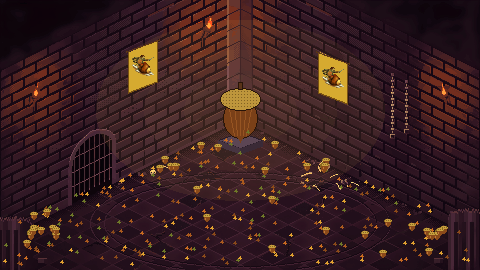
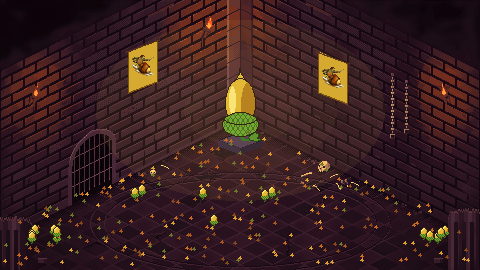
feat: Eichel-MG statt Käsestücken, Eicheln wie auf bayerischen Karten
- Eichelkäseattacke: Der Eichelober feuert eine Salve Eicheln mit
  Leuchtspur aus der Spitze seiner Eichel (Mündungsfeuer, Rückstoß,
  grüne Kappen fliegen zurück), dann eine Riesen-Eichel als Finale.
  Keine Käseecken mehr.
- Alle Eicheln (Geschosse, Regen, Boden, Gang-Bild) und die große
  Statue in der Eichel-Arena nach der Spielkarten-Eichel: gelbe Frucht
  oben, grüne gemusterte Kappe mit Stiel unten.
- Weniger lose Eicheln am Boden, damit die Geschosse lesbar bleiben.

Claude-Session: https://claude.ai/code/session_01URJ2x6GB5v4m7iNPs4GFtJ

diff --git a/src/render/arena.ts b/src/render/arena.ts
@@ -11,7 +11,7 @@ import { carriesField, chooseRoom, ROOM_MIN_SCALE } from "./rooms.ts";
 import { ROOM_PICTURES } from "./rooms/index.ts";
 import { displaySize, renderGlow, renderSprite, type PixelImage } from "./sprite.ts";
 import { ISO } from "./stage-iso.ts";
-import { acornImage, cheeseImage, signatureFor, tattooImage, type Signature } from "./eichel.ts";
+import { acornImage, signatureFor, tattooImage, type Signature } from "./eichel.ts";
 import { FLOOR_Y, GROUND_Y, HEIGHT, openBricks, paintStarfield, scatterStars, TORCH_X, WIDTH, type Brick, type StageLayout, type Star } from "./stage.ts";
 
 export { FLOOR_Y, GROUND_Y, HEIGHT, TORCH_X, WIDTH } from "./stage.ts";
@@ -200,7 +200,7 @@ export interface Particle {
   glow: boolean;
 }
 
-/** A little picture flying through the arena (an acorn, a wedge of cheese, the gang tattoo). */
+/** A little picture flying through the arena (an acorn, the gang tattoo). */
 export interface Prop {
   readonly image: HTMLCanvasElement;
   x: number;
@@ -217,6 +217,8 @@ export interface Prop {
   /** Seconds of fade-in and fade-out at the ends of its life. */
   readonly fade: number;
   readonly glow: number;
+  /** Bursts into shards where its flight ends (an acorn hitting home). */
+  readonly shatter?: boolean;
 }
 
 /** How an attack looks – chosen from the mechanism, see {@link attackStyle}. */
@@ -353,9 +355,9 @@ export abstract class ArenaSim {
   protected readonly background: HTMLCanvasElement;
   protected readonly fighters: [Fighter | null, Fighter | null] = [null, null];
   protected readonly particles: Particle[] = [];
-  /** Flying pictures (acorns, cheese, the gang tattoo). */
+  /** Flying pictures (acorns, the gang tattoo). */
   protected readonly props: Prop[] = [];
-  private eichelArt: { acorn: HTMLCanvasElement; cheese: HTMLCanvasElement } | null = null;
+  private eichelArt: { acorn: HTMLCanvasElement } | null = null;
   protected readonly projectiles: Projectile[] = [];
   protected readonly rings: Ring[] = [];
   protected readonly bolts: Bolt[] = [];
@@ -552,7 +554,7 @@ export abstract class ArenaSim {
         // the Eichelober arrives: acorns rain around him, clouds puff up where he lands
         const { acorn } = this.eichelProps();
         for (let i = 0; i < 16; i++) {
-          this.props.push({ image: acorn, x: x + (r() - 0.5) * 120, y: -10 - r() * 50, vx: (r() - 0.5) * 20, vy: 40 + r() * 40, life: -r() * 0.6, max: 1.6, gravity: 180, w: 8, h: 9, flip: r() < 0.5, fade: 0.15, glow: 0 });
+          this.props.push({ image: acorn, x: x + (r() - 0.5) * 120, y: -10 - r() * 50, vx: (r() - 0.5) * 20, vy: 40 + r() * 40, life: -r() * 0.6, max: 1.6, gravity: 180, w: 10, h: 13, flip: r() < 0.5, fade: 0.15, glow: 0 });
         }
         this.clouds(x, this.gy(side) - 2, 26);
         this.rings.push({ x, y: this.gy(side), r: 4, life: 0, max: 0.9, color: "#e8c040" });
@@ -1780,9 +1782,14 @@ export abstract class ArenaSim {
       p.life += dt;
       if (p.life >= p.max) {
         this.props.splice(i, 1);
+        if (p.shatter === true) {
+          for (let k = 0; k < 6; k++) this.particles.push({ x: p.x, y: p.y, vx: (this.rand() - 0.5) * 110, vy: -20 - this.rand() * 70, life: 0, max: 0.3 + this.rand() * 0.3, color: k % 3 === 0 ? "#78a834" : "#e2b834", size: 1, gravity: 260, glow: false });
+        }
         continue;
       }
       if (p.life < 0) continue;
+      // a fired acorn draws a glowing tracer behind it
+      if (p.shatter === true) this.particles.push({ x: p.x, y: p.y, vx: -p.vx * 0.05, vy: -p.vy * 0.05, life: 0, max: 0.14, color: this.rand() < 0.5 ? "#fff0a0" : "#ffb838", size: 2, gravity: 0, glow: true });
       p.vy += p.gravity * dt;
       p.x += p.vx * dt;
       p.y += p.vy * dt;
@@ -1803,7 +1810,7 @@ export abstract class ArenaSim {
       const g = 140;
       // falls until it reaches the floor, then bounces off as a few crumbs
       const t = (-vy + Math.sqrt(vy * vy + 2 * g * (land + 12))) / g;
-      this.props.push({ image: acorn, x: 20 + r() * (WIDTH - 40), y: -12, vx: (r() - 0.5) * 12, vy, life: 0, max: t, gravity: g, w: 8, h: 9, flip: r() < 0.5, fade: 0.1, glow: 0 });
+      this.props.push({ image: acorn, x: 20 + r() * (WIDTH - 40), y: -12, vx: (r() - 0.5) * 12, vy, life: 0, max: t, gravity: g, w: 10, h: 13, flip: r() < 0.5, fade: 0.1, glow: 0 });
     }
     if (r() < dt * 9) {
       const c = ["#c86a20", "#e0a030", "#8a4a1a", "#6e7828"][Math.floor(r() * 4)] ?? "#c86a20";
@@ -1811,8 +1818,8 @@ export abstract class ArenaSim {
     }
   }
 
-  private eichelProps(): { acorn: HTMLCanvasElement; cheese: HTMLCanvasElement } {
-    this.eichelArt ??= { acorn: toCanvas(acornImage()), cheese: toCanvas(cheeseImage()) };
+  private eichelProps(): { acorn: HTMLCanvasElement } {
+    this.eichelArt ??= { acorn: toCanvas(acornImage()) };
     return this.eichelArt;
   }
 
@@ -1832,9 +1839,9 @@ export abstract class ArenaSim {
   }
 
   /**
-   * "Eichelkäseattacke": the Eichelober rears up, rides his acorn across the arena on a trail of
-   * clouds and speed lines, rams the opponent – and the acorn bursts: molten Eichelkäse sprays,
-   * wedges of cheese fly, a green stink rises and cheese drips down the victim.
+   * "Eichelkäseattacke": the Eichelober rises on his acorn and opens fire – an acorn gun rattles
+   * from the tip of his acorn, a stream of acorns hammers the opponent (muzzle flashes, spent caps
+   * flying back, shards on every hit), and a last, giant acorn ends it with a blast.
    */
   private async eichelkaese(side: Side): Promise<void> {
     const attacker = this.fighters[side];
@@ -1845,58 +1852,67 @@ export abstract class ArenaSim {
     const rm = this.reducedMotion;
     const r = this.rand;
     const tx = SIDE_X[other];
+    const tw = target?.sprite.width ?? 30;
     const th = target?.sprite.height ?? 40;
     const ty = this.gy(other) - th / 2;
-    const { cheese } = this.eichelProps();
-    // wind-up: he rears back and lifts off, the shield glints gold
-    this.rings.push({ x: SIDE_X[side], y: this.gy(side) - attacker.sprite.height / 2, r: 4, life: 0, max: 0.6, color: "#e8c040" });
-    await this.tween(rm ? 40 : 380, (t) => {
-      attacker.offsetX = -dir * 12 * t;
-      attacker.offsetY = -10 * t;
-      if (r() < 0.6) this.particles.push({ x: SIDE_X[side] + (r() - 0.5) * attacker.sprite.width, y: this.gy(side) - r() * attacker.sprite.height, vx: 0, vy: -20, life: 0, max: 0.5, color: "#ffe680", size: 1, gravity: 0, glow: true });
+    const { acorn } = this.eichelProps();
+    // wind-up: he rises, the gun spins up with a golden glint
+    await this.tween(rm ? 40 : 320, (t) => {
+      attacker.offsetX = -dir * 6 * t;
+      attacker.offsetY = -8 * t;
     });
-    this.onCue?.("strike");
-    // the ride: an arc across the arena, clouds and brown speed lines behind
-    const gap = Math.abs(tx - SIDE_X[side]) - (attacker.sprite.width + (target?.sprite.width ?? 30)) / 2 + 10;
-    const dist = Math.max(20, gap);
-    await this.tween(rm ? 60 : 560, (t) => {
-      const e = t * t * (3 - 2 * t);
-      attacker.offsetX = dir * (-12 + (dist + 12) * e);
-      attacker.offsetY = -10 - 26 * Math.sin(t * Math.PI);
-      const bx = SIDE_X[side] + attacker.offsetX - dir * attacker.sprite.width * 0.45;
-      const by = this.gy(side) + attacker.offsetY - 4;
-      this.clouds(bx, by, 2, -dir * 20);
-      for (let k = 0; k < 2; k++) this.particles.push({ x: bx - dir * r() * 20, y: by - r() * attacker.sprite.height * 0.6, vx: -dir * (120 + r() * 80), vy: 0, life: 0, max: 0.25, color: r() < 0.5 ? "#8a5428" : "#c07a3a", size: 1, gravity: 0, glow: false });
-    });
-    // KÄSE!
+    const muzzle = (): [number, number] => [SIDE_X[side] + attacker.offsetX + dir * attacker.sprite.width * 0.48, this.gy(side) + attacker.offsetY - attacker.sprite.height * 0.28];
+    const [mx0, my0] = muzzle();
+    this.rings.push({ x: mx0, y: my0, r: 2, life: 0, max: 0.4, color: "#ffe680" });
+    await wait(rm ? 30 : 200);
+    // the barrage
+    const shots = rm ? 6 : 34;
+    const flight = rm ? 0.12 : 0.24;
+    for (let i = 0; i < shots; i++) {
+      if (i % 3 === 0) this.onCue?.("strike");
+      const [mx, my] = muzzle();
+      const hx = tx + (r() - 0.5) * tw * 0.7;
+      const hy = ty + (r() - 0.5) * th * 0.7;
+      this.props.push({ image: acorn, x: mx, y: my, vx: (hx - mx) / flight, vy: (hy - my) / flight, life: 0, max: flight, gravity: 0, w: 12, h: 16, flip: false, fade: 0, glow: 0.6, shatter: true });
+      // muzzle flash and a spent green cap flying back
+      for (let k = 0; k < 5; k++) this.particles.push({ x: mx, y: my, vx: dir * (40 + r() * 90), vy: (r() - 0.5) * 60, life: 0, max: 0.08 + r() * 0.08, color: k < 2 ? "#ffffff" : "#ffd84a", size: k === 0 ? 4 : 2, gravity: 0, glow: true });
+      this.rings.push({ x: mx, y: my, r: 2, life: 0, max: 0.1, color: "#fff0a0", grow: 60 });
+      this.particles.push({ x: mx - dir * 6, y: my, vx: -dir * (30 + r() * 40), vy: -50 - r() * 40, life: 0, max: 0.6, color: r() < 0.5 ? "#78a834" : "#487420", size: 2, gravity: 260, glow: false });
+      // recoil
+      attacker.offsetX = -dir * (6 + (i % 2) * 2);
+      this.shake = Math.max(this.shake, rm ? 0 : 1.5);
+      if (target !== null && i % 4 === 3) target.flash = 0.5;
+      await wait(rm ? 40 : 42);
+    }
+    await wait(flight * 1000);
+    // the finale: one giant acorn
+    const [mx, my] = muzzle();
+    const big = rm ? 0.15 : 0.4;
+    this.props.push({ image: acorn, x: mx, y: my, vx: (tx - mx) / big, vy: (ty - my) / big, life: 0, max: big, gravity: 0, w: 30, h: 39, flip: false, fade: 0, glow: 0.3 });
+    for (let k = 0; k < 20; k++) this.particles.push({ x: mx, y: my, vx: dir * (60 + r() * 140), vy: (r() - 0.5) * 90, life: 0, max: 0.15 + r() * 0.1, color: k % 2 === 0 ? "#ffffff" : "#ffd84a", size: 3, gravity: 0, glow: true });
+    this.shake = rm ? 0 : 5;
+    await wait(big * 1000);
     this.onCue?.("boom");
-    this.flash = 0.7;
+    this.flash = 0.6;
     this.flashColor = "#ffe680";
     this.shake = rm ? 0 : 12;
-    for (let k = 0; k < 3; k++) this.rings.push({ x: tx, y: ty, r: 4, life: -k * 0.1, max: 0.9, color: k === 1 ? "#fff4c0" : "#f0c030", grow: 160 });
-    const goo = ["#f0c030", "#ffe680", "#c89020", "#fff4c0"];
-    for (let i = 0; i < 140; i++) {
-      const a = -Math.PI * r();
-      const sp = 40 + r() * 190;
-      this.particles.push({ x: tx, y: ty, vx: Math.cos(a) * sp, vy: Math.sin(a) * sp, life: -r() * 0.1, max: 0.9 + r() * 0.9, color: goo[i % goo.length] ?? "#f0c030", size: r() < 0.4 ? 2 : 1, gravity: 220, glow: i % 3 === 0 });
+    for (let k = 0; k < 3; k++) this.rings.push({ x: tx, y: ty, r: 4, life: -k * 0.1, max: 0.9, color: k === 1 ? "#fff4c0" : "#e2b834", grow: 160 });
+    const bits = ["#e2b834", "#fae478", "#b88220", "#78a834", "#487420"];
+    for (let i = 0; i < 120; i++) {
+      const a = r() * Math.PI * 2;
+      const sp = 40 + r() * 180;
+      this.particles.push({ x: tx, y: ty, vx: Math.cos(a) * sp, vy: Math.sin(a) * sp - 40, life: 0, max: 0.6 + r() * 0.8, color: bits[i % bits.length] ?? "#e2b834", size: r() < 0.4 ? 2 : 1, gravity: 240, glow: i % 4 === 0 });
     }
-    for (let i = 0; i < 9; i++) {
-      this.props.push({ image: cheese, x: tx + (r() - 0.5) * 16, y: ty, vx: (r() - 0.5) * 220, vy: -110 - r() * 120, life: -r() * 0.1, max: 1.6, gravity: 300, w: 13, h: 10, flip: r() < 0.5, fade: 0.2, glow: 0.2 });
-    }
-    // the stink: green wisps rising
-    for (let i = 0; i < 36; i++) this.particles.push({ x: tx + (r() - 0.5) * 50, y: ty + (r() - 0.5) * th, vx: (r() - 0.5) * 10, vy: -8 - r() * 14, life: -r() * 0.8, max: 1.6 + r(), color: r() < 0.5 ? "#9ac040" : "#c8e070", size: 2, gravity: -6, glow: false });
-    // melted cheese runs down the victim
-    for (let i = 0; i < 40; i++) this.particles.push({ x: tx + (r() - 0.5) * (target?.sprite.width ?? 30), y: this.gy(other) - th + r() * 6, vx: 0, vy: 4 + r() * 10, life: -r() * 1.2, max: 1.2 + r() * 0.6, color: r() < 0.6 ? "#f0c030" : "#ffe680", size: 1, gravity: 30, glow: false });
-    await wait(rm ? 60 : 380);
-    // and back onto his side
+    // whole acorns bounce out of the blast
+    for (let i = 0; i < 8; i++) this.props.push({ image: acorn, x: tx, y: ty, vx: (r() - 0.5) * 200, vy: -100 - r() * 120, life: 0, max: 1.3, gravity: 320, w: 10, h: 13, flip: r() < 0.5, fade: 0.2, glow: 0 });
+    await wait(rm ? 60 : 300);
     const ox = attacker.offsetX;
     const oy = attacker.offsetY;
-    void this.tween(rm ? 40 : 450, (t) => {
+    void this.tween(rm ? 40 : 420, (t) => {
       attacker.offsetX = ox * (1 - t);
       attacker.offsetY = oy * (1 - t);
     });
   }
-
   /**
    * "Eichelhagel": the gang fires acorns with slingshots – from their own side and from the dark
    * corners where more of them hide – in three volleys that rattle down on the opponent.
@@ -1931,7 +1947,7 @@ export abstract class ArenaSim {
         const hy = this.gy(other) - th * (0.2 + r() * 0.7);
         const vx = (hx - sx) / flight;
         const vy = (hy - sy - 0.5 * g * flight * flight) / flight;
-        this.props.push({ image: acorn, x: sx, y: sy, vx, vy, life: 0, max: flight, gravity: g, w: 8, h: 9, flip: dir < 0, fade: 0, glow: 0 });
+        this.props.push({ image: acorn, x: sx, y: sy, vx, vy, life: 0, max: flight, gravity: g, w: 10, h: 13, flip: dir < 0, fade: 0, glow: 0 });
         // the slingshot's snap
         this.rings.push({ x: sx, y: sy, r: 1, life: 0, max: 0.25, color: "#c83a28", grow: 40 });
         hits.push([hx, hy]);

diff --git a/src/render/eichel.ts b/src/render/eichel.ts
@@ -1,6 +1,6 @@
 /**
- * The Eichelober and his gang – the secret characters' own show: little pixel props (acorn,
- * cheese wedge), the gang tattoo made from the Eichelober's picture, and which signature attack a
+ * The Eichelober and his gang – the secret characters' own show: the acorn they fire (drawn after
+ * the Eichel of the Bavarian cards), the gang tattoo made from the Eichelober's picture, and which signature attack a
  * name asks for. Presentation only – the engine decides the outcome as for every other form.
  */
 import type { PixelImage } from "./sprite.ts";
@@ -27,41 +27,31 @@ export const SIGNATURE_CRY: Readonly<Record<Signature, string>> = {
 
 type Grid = readonly string[];
 
+/** Shaped like the Eichel of the Bavarian cards: yellow nut pointing up, green hatched cup, green stalk. */
 const ACORN: Grid = [
-  "...w....",
-  ".cCCCCc.",
-  "cCcCcCcC",
-  "cCCCCCCc",
-  ".bbbbbb.",
-  ".bBbbbb.",
-  ".bBbbbb.",
-  "..bbbb..",
-  "...bb...",
-];
-
-const CHEESE: Grid = [
-  "...........YY",
-  "........YYYyy",
-  ".....YYYYyyyy",
-  "..YYYYYyyoyyy",
-  "YYYYYyyyyyyyy",
-  "yyyoyyyyyyoyy",
-  "yyyyyyyyyyyyy",
-  "yyoyyyyoyyyyy",
-  "yyyyyyyyyyyyy",
-  "ddddddddddddd",
+  "....kk....",
+  "...kYYk...",
+  "..kYYyyk..",
+  ".kYYyyyyk.",
+  ".kYyyyyok.",
+  ".kyyyyyok.",
+  ".kyyyyook.",
+  "kGgGgGgGgk",
+  "kgGgGgGgGk",
+  ".kgGgGgGk.",
+  "..kgggk...",
+  "....ks....",
+  "....sk....",
 ];
 
 const COLORS: Readonly<Record<string, readonly [number, number, number]>> = {
-  w: [0x5a, 0x34, 0x18],
-  c: [0x8a, 0x6a, 0x20],
-  C: [0xc8, 0xa0, 0x40],
-  b: [0x8a, 0x4a, 0x1a],
-  B: [0xc0, 0x7a, 0x3a],
-  Y: [0xff, 0xe6, 0x80],
-  y: [0xf0, 0xc0, 0x30],
-  o: [0xb8, 0x8a, 0x18],
-  d: [0xc8, 0x90, 0x20],
+  k: [0x34, 0x24, 0x0e],
+  Y: [0xfa, 0xe4, 0x78],
+  y: [0xe2, 0xb8, 0x34],
+  o: [0xb8, 0x82, 0x20],
+  G: [0x78, 0xa8, 0x34],
+  g: [0x48, 0x74, 0x20],
+  s: [0x40, 0x78, 0x24],
 };
 
 function gridImage(grid: Grid): PixelImage {
@@ -83,14 +73,9 @@ function gridImage(grid: Grid): PixelImage {
   return { width, height, data };
 }
 
-/** An acorn, 8×9 – what the gang's slingshots fire. */
+/** An acorn, 10×13 – what the Eichelober's acorn gun and the gang's slingshots fire. */
 export function acornImage(): PixelImage {
   return gridImage(ACORN);
-}
-
-/** A wedge of Eichelkäse, 13×10. */
-export function cheeseImage(): PixelImage {
-  return gridImage(CHEESE);
 }
 
 /**

diff --git a/src/render/CONTEXT.md b/src/render/CONTEXT.md
@@ -76,7 +76,8 @@ a freehand `skizze` only when no part fits. Unknown ids are dropped (`knownLook`
 Forms with `secret: true` (`content/core/forms/geheim.json`) stay out of the grimoire until this browser has seen them
 summoned (`oldest-game:secrets`). Their pictures come with the game (`content/core/secret-art.json`, id → art string,
 drawn from a design, not PixelLab). The **Eichelober** arrives in a shower of acorns and attacks with the
-*Eichelkäseattacke* (acorn ride across the arena, cheese explosion); the **Eichelober-Gang** flashes its tattoo (the
+*Eichelkäseattacke* (an acorn machine gun: a stream of acorns with tracers, then one giant acorn); every acorn is drawn
+after the Eichel of the Bavarian cards (yellow nut up, green hatched cup and stalk); the **Eichelober-Gang** flashes its tattoo (the
 Eichelober picture as ink) and fires three volleys of acorns with slingshots (*Eichelhagel*). Chosen by name
 (`signatureFor`, like the easter eggs) – pure show, the engine decides as for every form. **Eichel-Arena:** the room
 `eichel` (`rooms.json`, `anyScale`: any form with `kaesig`, whatever its scale, before any field; picture drawn from the
